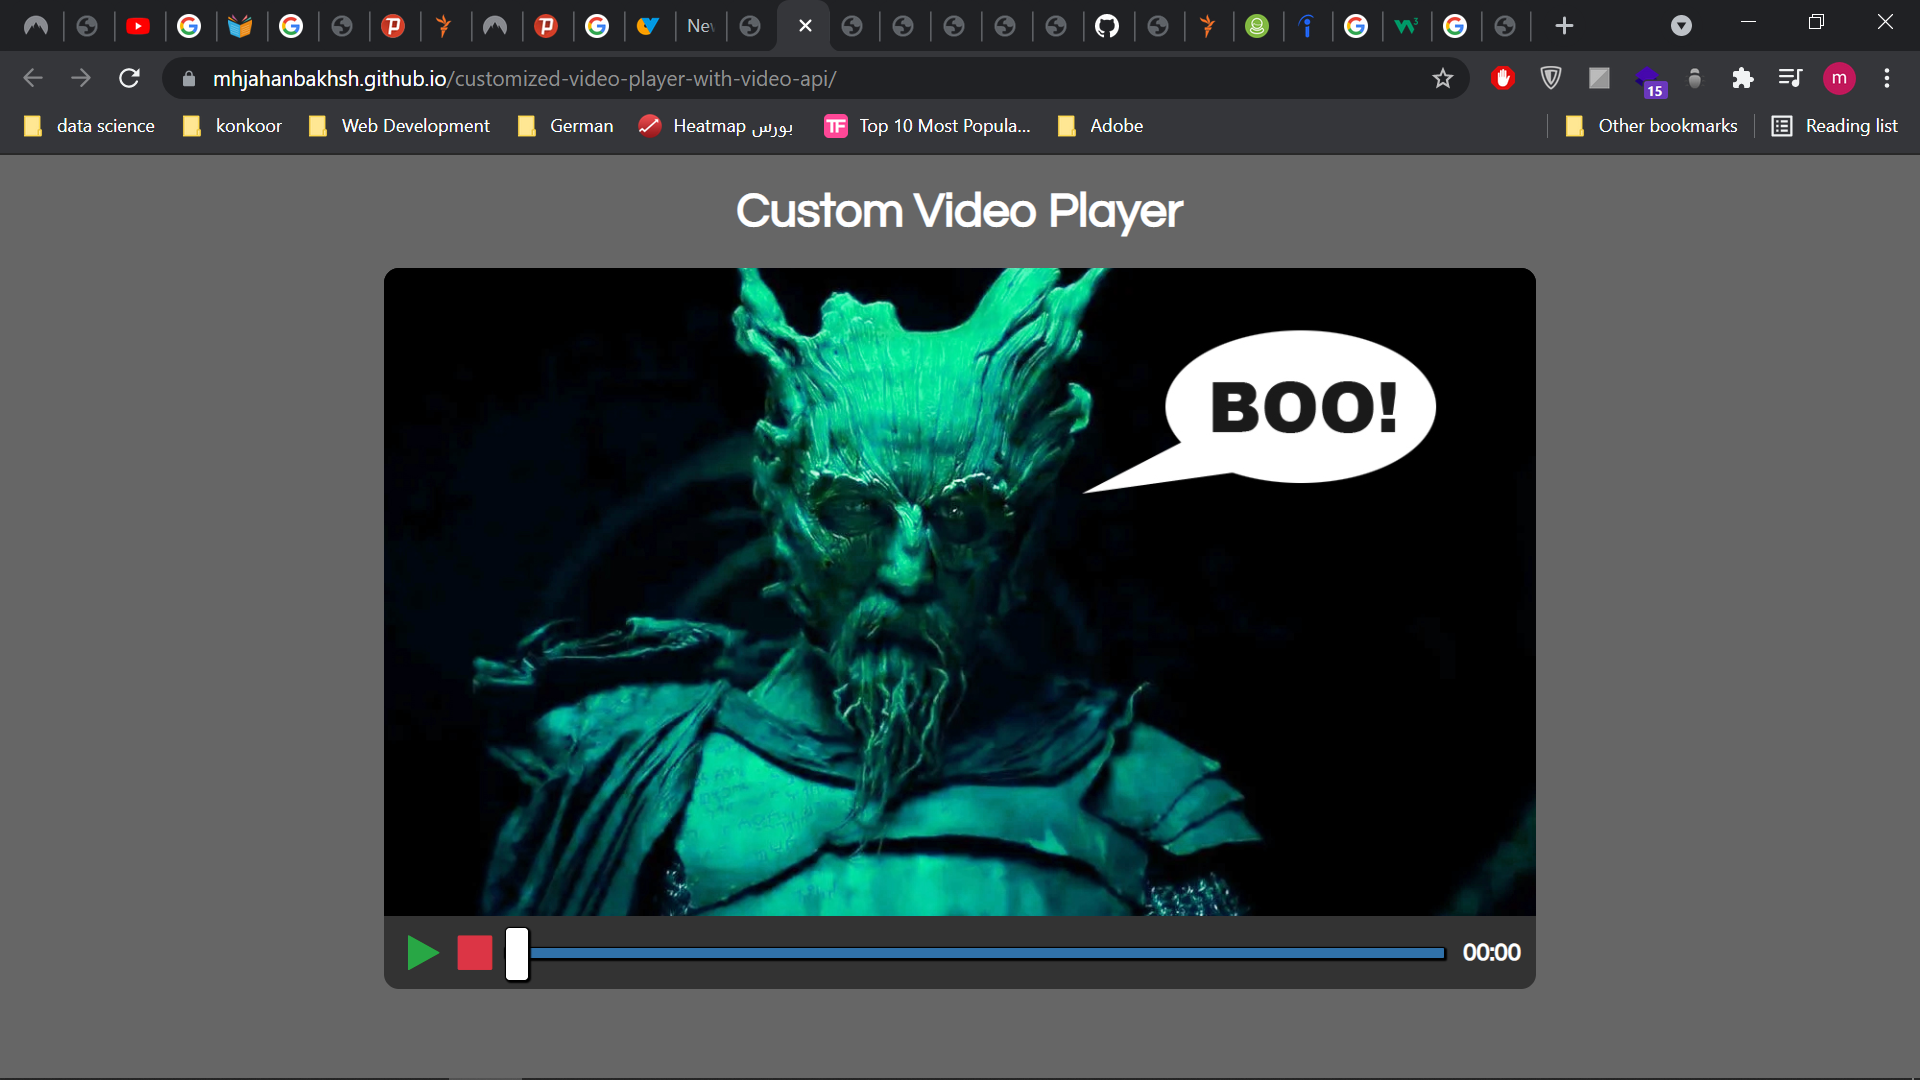
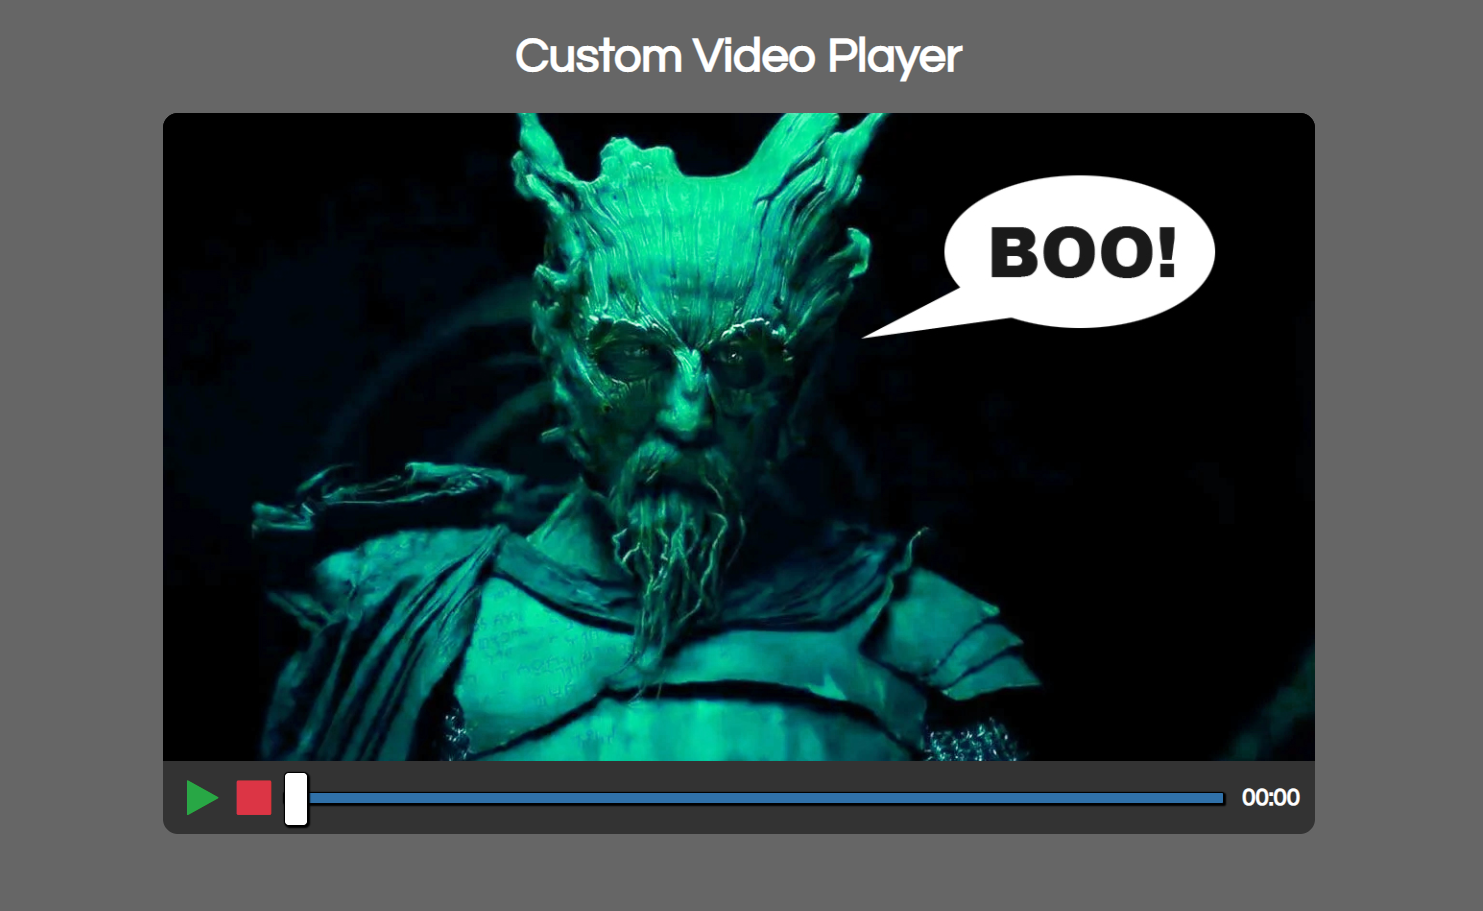
v2

diff --git a/projects.html b/projects.html
@@ -26,15 +26,15 @@
                 <li>Html</li>
                 <li>css</li>
                 <li>javascript</li>
-                <li>Responsive</li>
+                <li>json manipulation</li>
                 <li>fetch api</li>
                 
             </ul>
             <div class="about">About</div>
-            <p class="project-desc"> this is a simple project for enhancing my third party api manipulation skills
-                Lorem ipsum dolor sit amet consectetur adipisicing elit. Accusantium harum, fuga perferendis natus illo maxime rem esse iure at minima! Incidunt maiores blanditiis sed enim facere quisquam ex reiciendis sunt ut quibusdam, eius recusandae dolorum voluptate distinctio? Minima, voluptas quae dignissimos est assumenda, eveniet eos itaque laborum repellat ipsum laudantium!
+            <p class="project-desc"> i built this project to enhance my ability in working with third party apis.
+            you can get the  exchange rate between two currency pairs you desire by.there is also a swap button to exchange values    
             </p>
-            <a href="https://trusting-beaver-ae0b3b.netlify.app/" target=_blank ><i class="fas fa-eye">Demo</i></a>
+            <a href="https://mhjahanbakhsh.github.io/simple-exchange-rate-/" target=_blank ><i class="fas fa-eye">Demo</i></a>
             <a href="https://github.com/Belfordation/simple-exchange-rate-" target=_blank ><i class="fas fa-code">Code</i></a>
         </div>
         <button class="exit-btn close-panel">
@@ -99,7 +99,7 @@
             <div class="about">About</div>
             <p class="project-desc"> array methodes are very important in every programming language,
                 so i built this app to chalenge my understanding on these methodes.i used https://randomuser.me/api to
-                fetch some random data and then manipulated the data using map,sort,filter,reduce... 
+                fetch some random users data and then manipulated the data using map,sort,filter,reduce... 
             </p>
             <a href="https://mhjahanbakhsh.github.io/randomPeopleWealth/" target=_blank ><i class="fas fa-eye">Demo</i></a>
             <a href="https://github.com/MHJahanbakhsh/randomPeopleWealth" target=_blank ><i class="fas fa-code">Code</i></a>
@@ -117,7 +117,7 @@
     <div class="panel-father">
     <div class="panel panel3 panel-hide">
        
-        <div class="snapshot3"></div>
+        <div class="snapshot4"></div>
         <div class="project-detail">
             <h3 class="project-title">
                 video player
@@ -126,17 +126,51 @@
                 <li>Html</li>
                 <li>css</li>
                 <li>javascript</li>
-                <li>ARRAY methods</li>
-                <li>fetch api</li>
-                <li>async/await</li>
+                <li>js video-api</li>
+                <li>HTML5 video-tag</li>
+               
 
             </ul>
             <div class="about">About</div>
-            <p class="project-desc"> built in video players with HTML5 video tag are very simple 
-                and restricted,i used video api and little bit of js and css to create a custom video player
+            <p class="project-desc"> built in video player in HTML5 video-tag is very simple 
+                and restricted,i used video api and little bit of js and css to create a custom video player with more functionality
             </p>
             <a href="https://mhjahanbakhsh.github.io/customized-video-player-with-video-api/" target=_blank ><i class="fas fa-eye">Demo</i></a>
             <a href="https://github.com/MHJahanbakhsh/customized-video-player-with-video-api" target=_blank ><i class="fas fa-code">Code</i></a>
+        </div>
+        <button class="exit-btn close-panel">
+           <i class="fas fa-times fa-2x"></i>
+       </button>
+    </div>
+    
+</div>
+</div>
+<!-- ---- -->
+<!-- ---- -->
+
+<div class="panel-godfather">
+    <div class="panel-father">
+    <div class="panel panel3 panel-hide">
+       
+        <div class="snapshot5"></div>
+        <div class="project-detail">
+            <h3 class="project-title">
+                Drawing App
+            </h3>
+            <ul>
+                <li>Html</li>
+                <li>css</li>
+                <li>javascript</li>
+                <li>html5 canvas tag </li>
+                
+
+            </ul>
+            <div class="about">About</div>
+            <p class="project-desc"> in this drawing app you can change the color and brush width,also you can 
+                clear the workspace by pressing X
+            </p>
+            <a href="https://mhjahanbakhsh.github.io/DrawingApp/" target=_blank ><i class="fas fa-eye">Demo</i></a>
+            <a href="https://github.com/MHJahanbakhsh/DrawingApp" target=_blank ><i class="fas fa-code">Code</i></a>
         </div>
         <button class="exit-btn close-panel">
            <i class="fas fa-times fa-2x"></i>
@@ -181,7 +215,7 @@
              <div class="card card-1">
                  <div class="content">
                      <h2>02</h2>
-                     <h3>cinema booking</h3>
+                     <h3>Cinema Booking</h3>
                      
                         <a href="#" class="projectbtn">Read more</a>
                  </div>
@@ -189,7 +223,7 @@
              <div class="card card-1">
                  <div class="content">
                      <h2>03</h2>
-                     <h3>random wealth generator</h3>
+                     <h3>Random Wealth Generator</h3>
                      
                         <a href="#" class="projectbtn">Read more</a>
                  </div>
@@ -198,6 +232,14 @@
                  <div class="content">
                      <h2>04</h2>
                      <h3>Customized video player</h3>
+                     
+                        <a href="#" class="projectbtn">Read more</a>
+                 </div>
+             </div>  
+             <div class="card card-1">
+                 <div class="content">
+                     <h2>05</h2>
+                     <h3>Drawing App</h3>
                      
                         <a href="#" class="projectbtn">Read more</a>
                  </div>

diff --git a/index.html b/index.html
@@ -42,22 +42,22 @@
             <section class="side-container item">
                 <ul>
                     <li style="background-color: #0e76a8;">
-                        <a href="" >
+                        <a href="https://www.linkedin.com/in/mohammad-hossein-jahanbakhsh-b34b85149/" target="_blank" >
                            <span> linkedin</span> <i class="fab fa-linkedin"></i>
                         </a>
                     </li>
                     <li style="background-color: #333;">
-                        <a href="">
+                        <a href="https://github.com/MHJahanbakhsh" target="_blank">
                            <span>Github</span>  <i class="fab fa-github"></i>
                         </a>
                     </li>
                     <li style="background-color: #6fc2b0;">
-                        <a href="">
+                        <a href="mailto:mohammadhosseinjahanbakhsh@hotmail.com" target="_blank">
                             <span>Email</span> <i class="fas fa-envelope-square"></i>
                         </a>
                     </li>
                     <li style="background-color: #565f69;">
-                        <a href="">
+                        <a href="" target="_blank">
                             <span>Resume</span> <i class="fas fa-file"></i>
                         </a>
                     </li>
@@ -73,7 +73,8 @@
                     HEY IT'S MH JAHANBAKHSH
                 </h1>
            
-                <P id="par">IM A FRONT END WEB DEVELOPER CURRENTLY LIVING IN ANZALI,IRAN</P>
+                <P id="par">IM AN EX DATA SCIENTIST AND CURRENTLY A FRONT END WEB DEVELOPER CURRENTLY LIVING IN IRAN.<br>
+                HIT ME UP AND LET'S CREATE SOMTHING SPECIAL</P>
            
                 <button class="btn ripple">View Projects </BUTTon>
             </section>

diff --git a/style.css b/style.css
@@ -220,7 +220,7 @@ ul{
     text-decoration: none;
     position: relative;
     left: -78px;
-    transition: left 0.4s cubcubic-bezier(.175,.885,.32,1.275);
+    transition: left 0.4s cubic-bezier(.175,.885,.32,1.275);
     background-color: transparent;
     /* text-align: center; */
     padding: 6px;
@@ -284,7 +284,7 @@ a >*{    background-color: transparent;
     display: flex;
     align-items: center;
     justify-content: center;
-    transition: top 0.2s;
+    transition: top 0.2s cubic-bezier(0.215, 0.610, 0.355, 1.000);
     z-index: 3;
 }
 
@@ -428,6 +428,11 @@ footer small span{
 header{
     background: #171a1d;
     z-index: 100;
+}
+
+#PAR{
+    font-size: 2rem;
+    font-weight: 700;
 }
 
 /* -----------------------media queries------------------- */

diff --git a/panel.css b/panel.css
@@ -123,6 +123,22 @@
     background-repeat: no-repeat;
     background-size: 100% 100%; 
 }
+.snapshot4{  
+    width: 60%;
+    height: 100%;
+    background-image: url("img/video-player.png");
+    background-position: center;
+    background-repeat: no-repeat;
+    background-size: 100% 100%; 
+}
+.snapshot5{  
+    width: 60%;
+    height: 100%;
+    background-image: url("img/drawing.png");
+    background-position: center;
+    background-repeat: no-repeat;
+    background-size: 100% 100%; 
+}
 
 .project-detail{
     height: 100%;

diff --git a/button.css b/button.css
@@ -1,7 +1,7 @@
 .intro button {
-    background-color: purple;
+    background-color: rgb(78, 58, 167);
     color: #fff;
-    border: 1px purple solid;
+    border: 1px rgb(78, 58, 167) solid;
     font-size: 14px;
     text-transform: uppercase;
     letter-spacing: 2px;
@@ -41,3 +41,8 @@
       padding: 10px;
     }
     }
+
+
+  
+
+    
